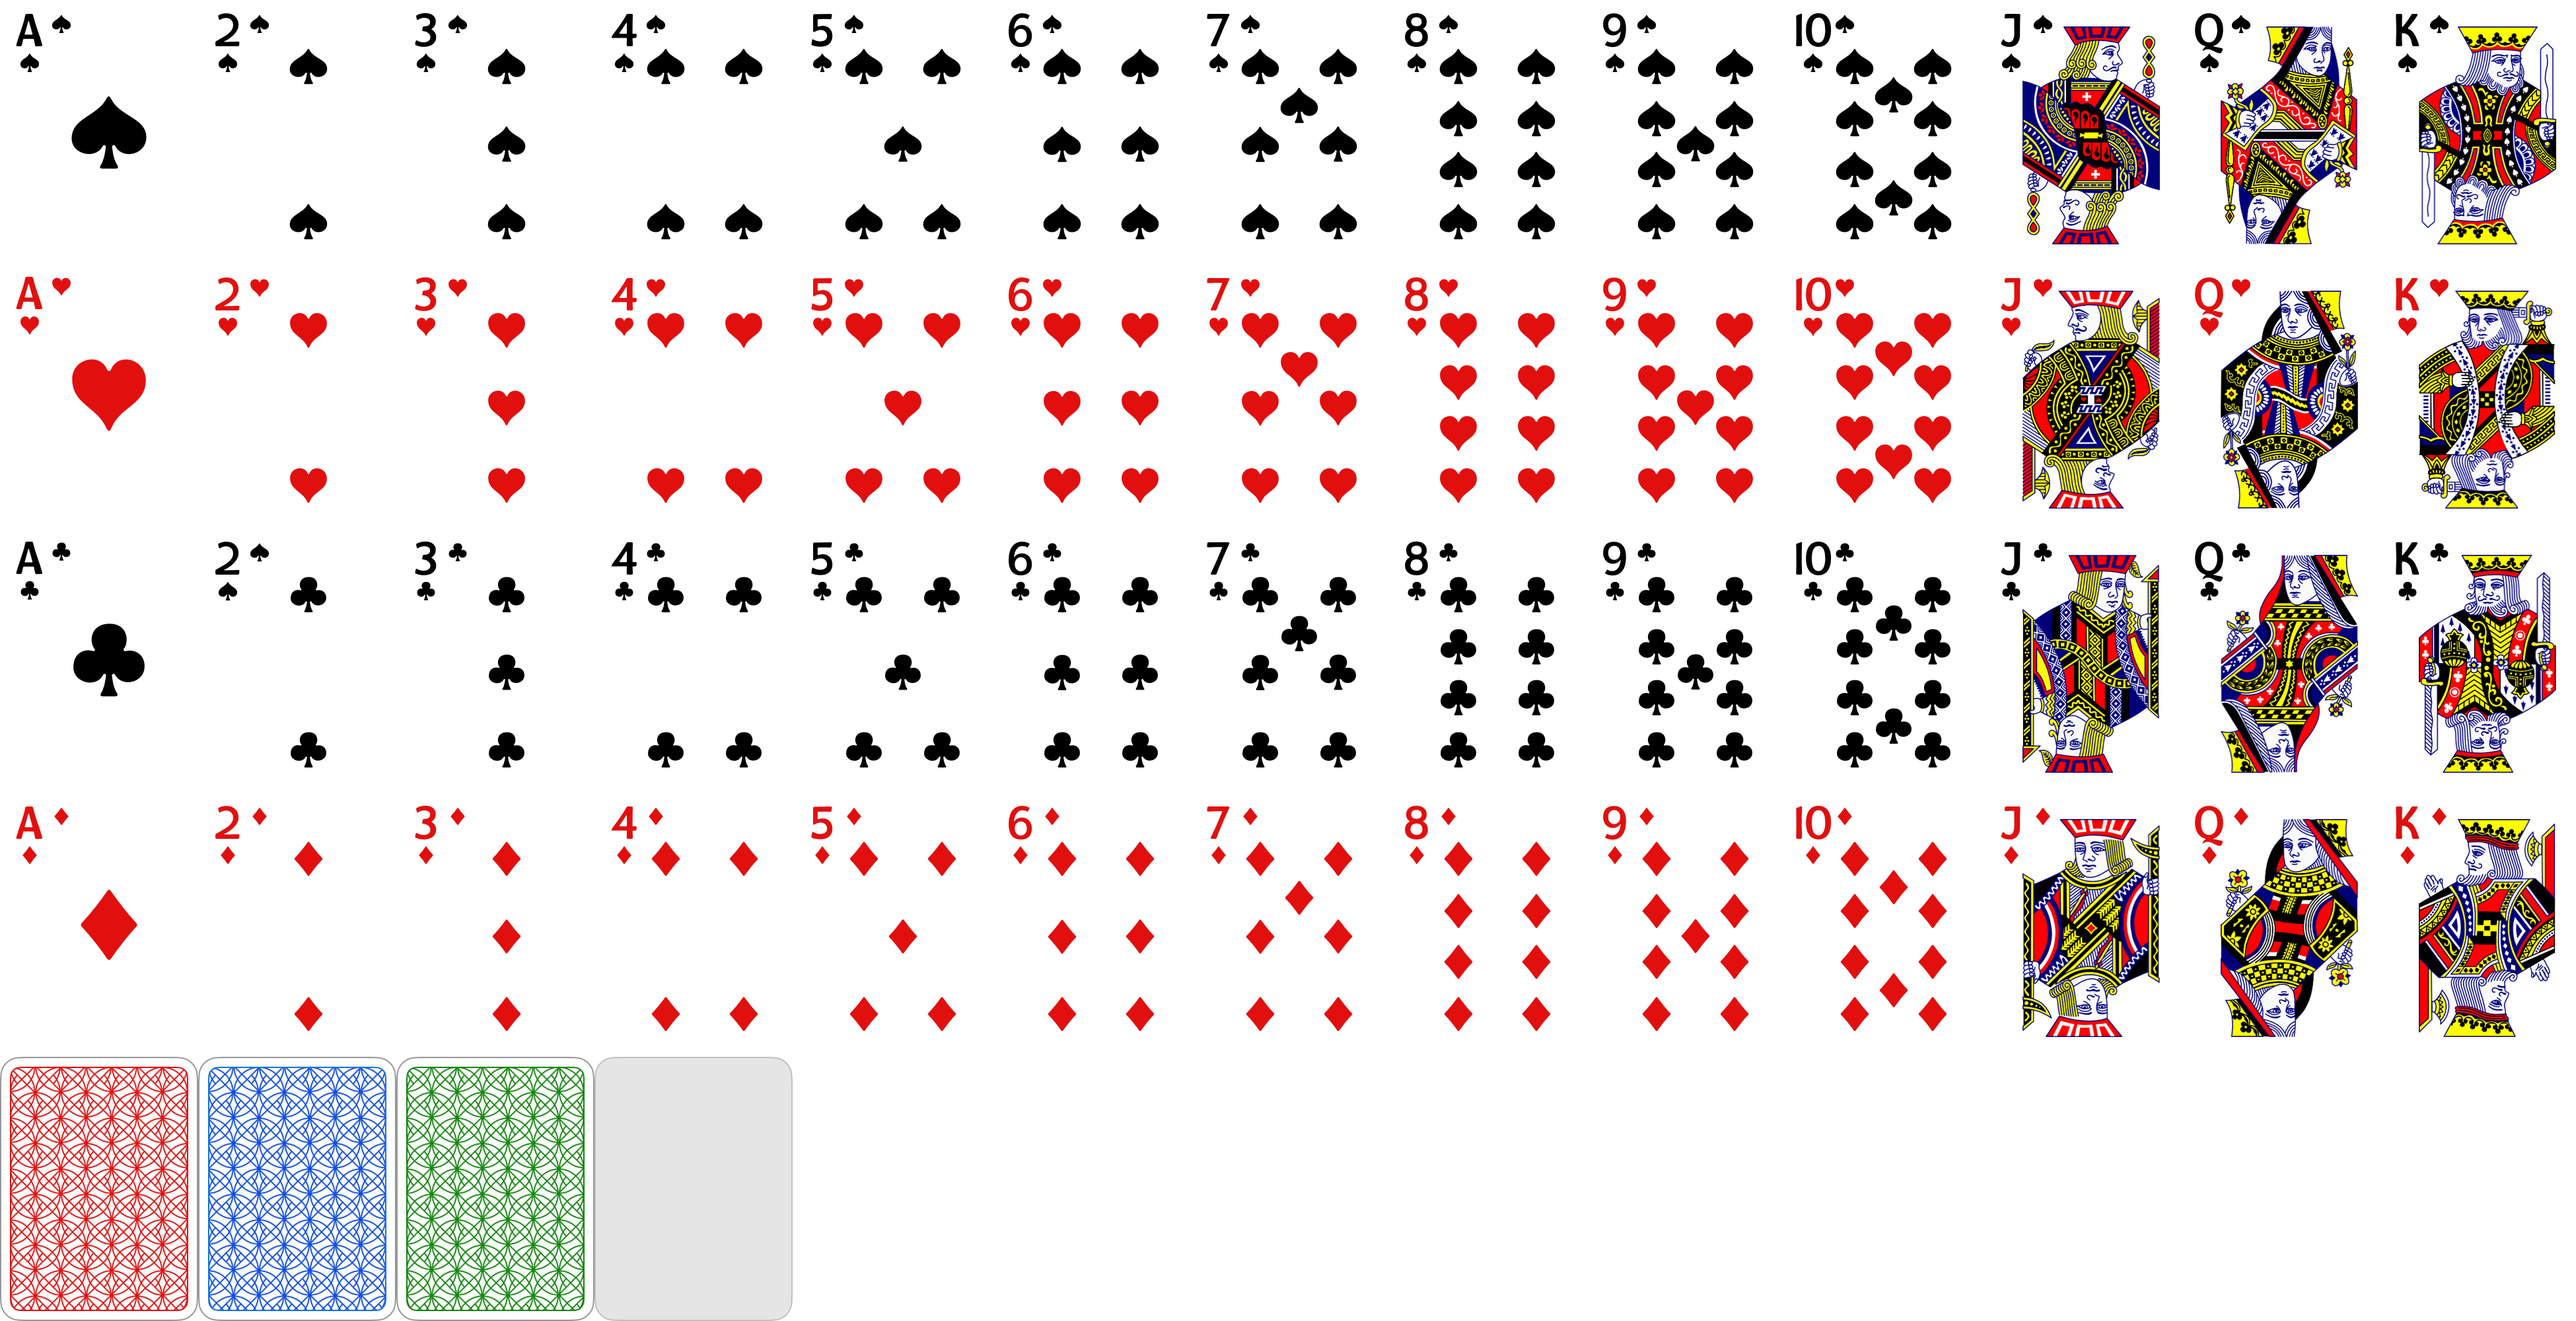
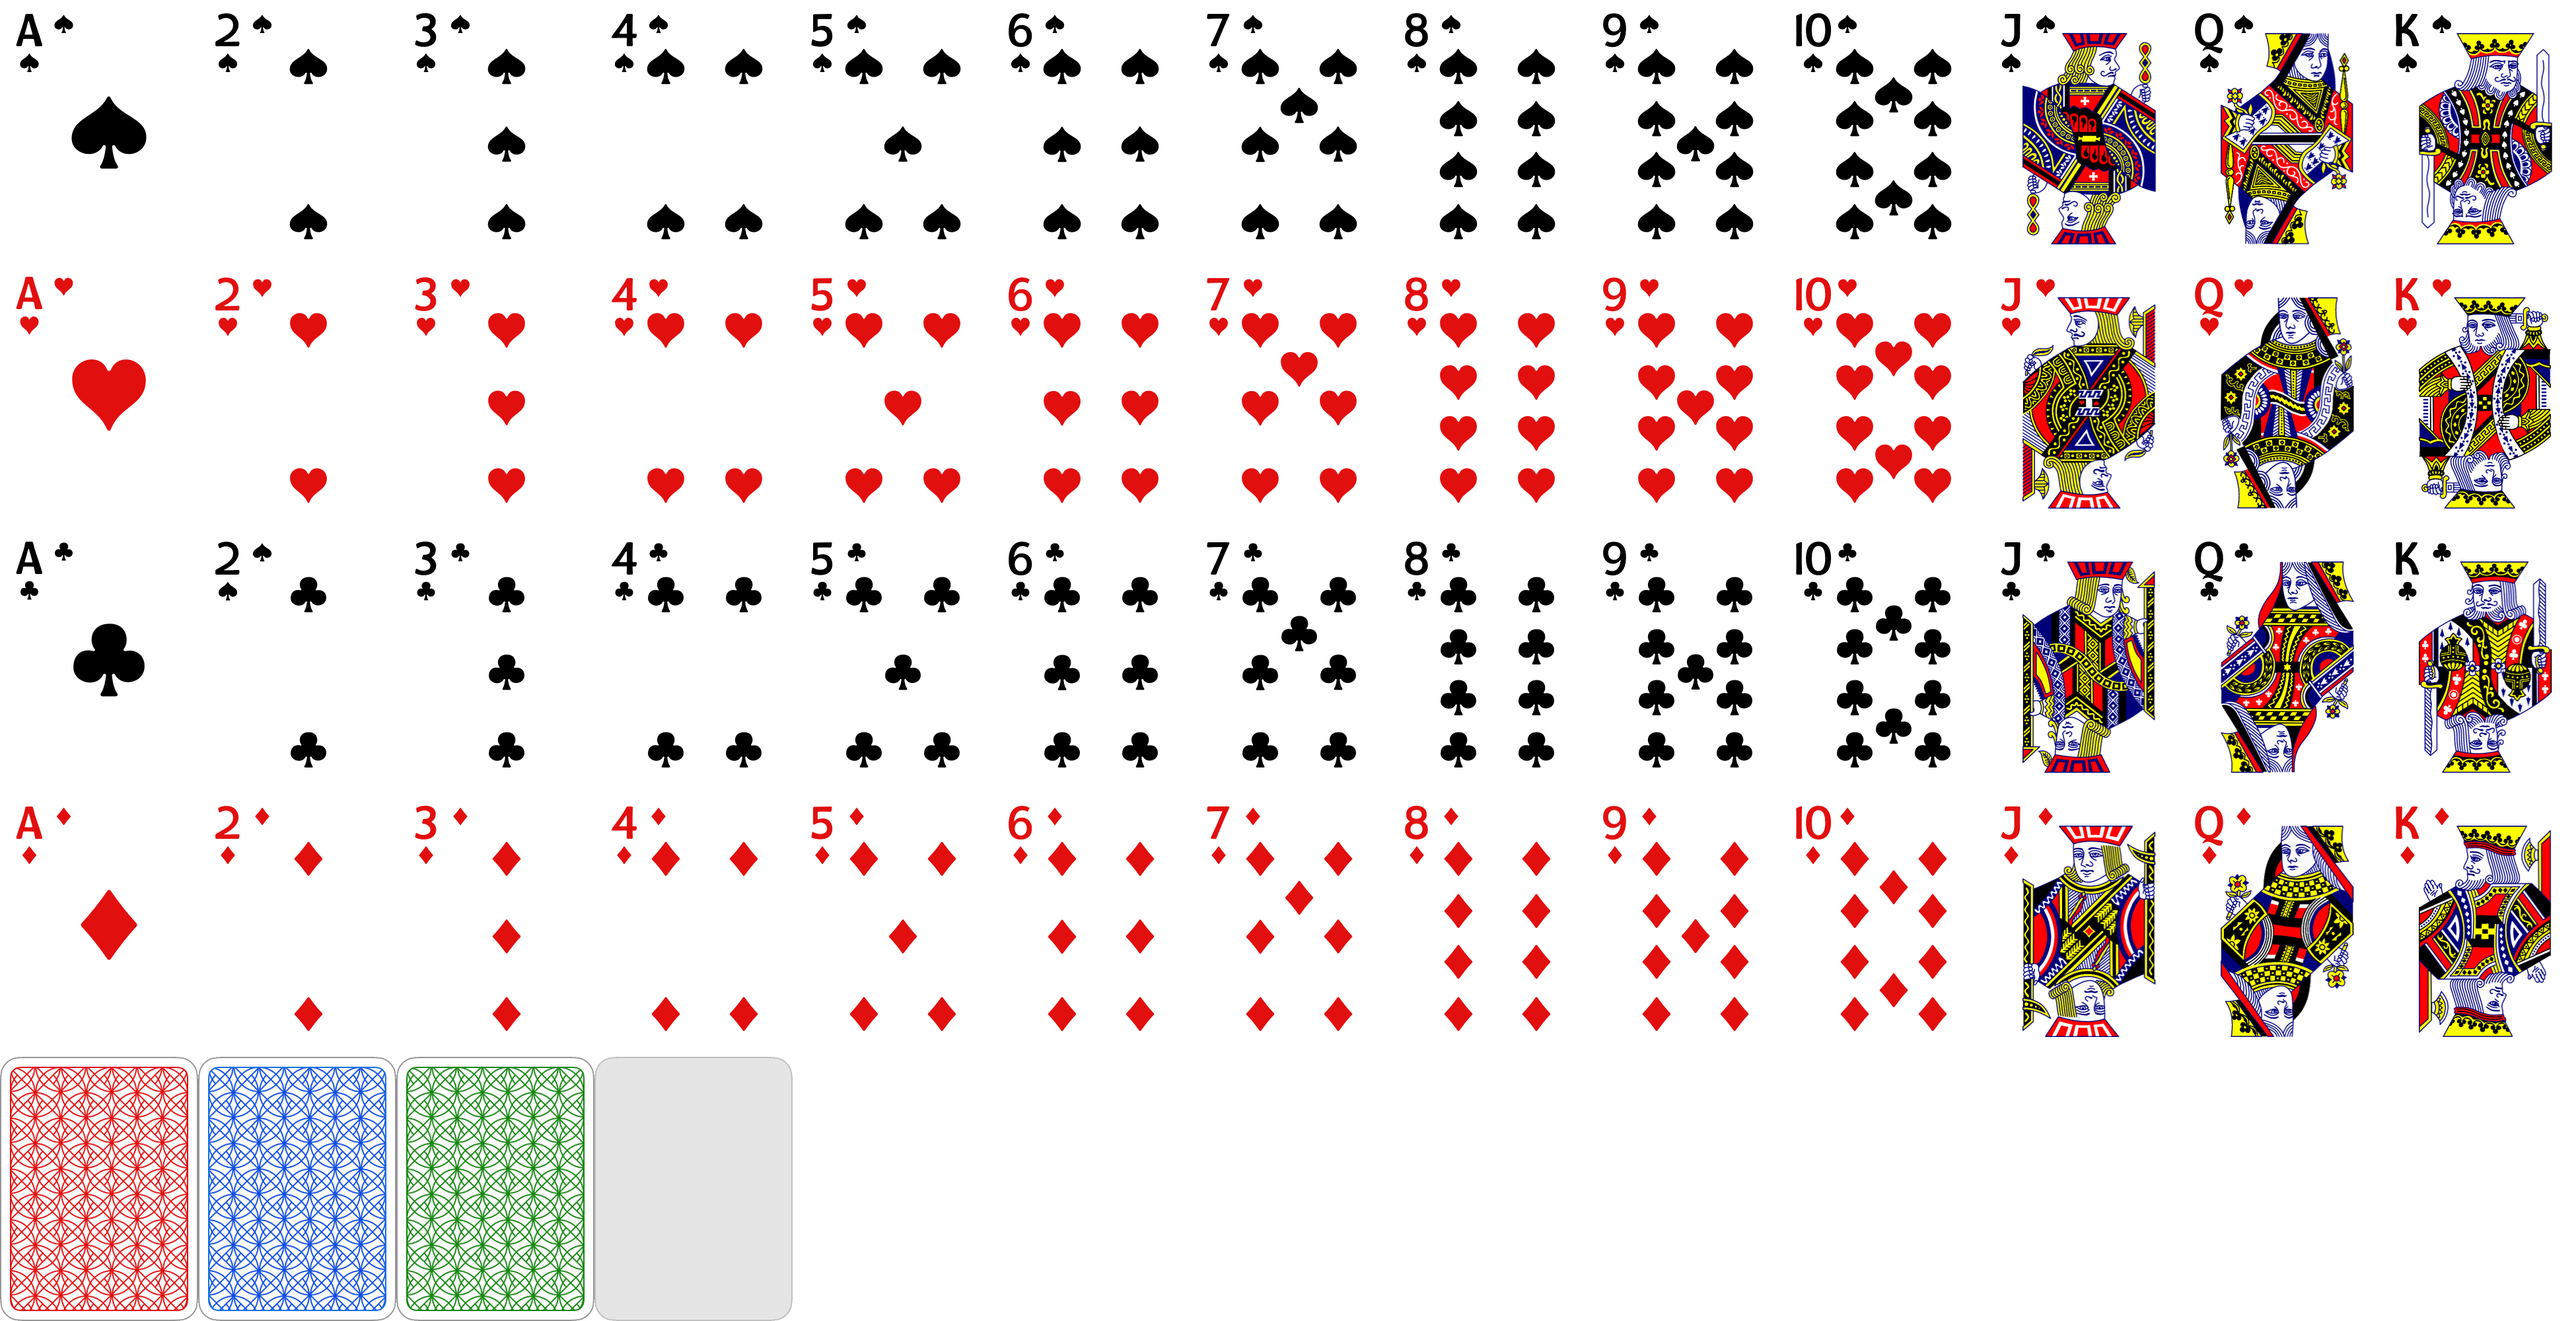
undo deck draw animation

Changed region(s): [[0.7756, 0.217, 0.9928, 0.589], [0.7756, 0.0, 0.9928, 0.186], [0.7756, 0.62, 0.9928, 0.806]]

diff --git a/ts/Game2.ts b/ts/Game2.ts
@@ -92,24 +92,24 @@ export default class Game {
     // start ticker
     Ticker.shared.add(this.update, this);
 
-    // this.dealCards().then(() => {
-    //   this.listenForCardClick();
-    //   this.listenForDeckClick();
-    //   this.initDomUi();
-    // });
+    this.dealCards().then(() => {
+      this.listenForCardClick();
+      this.listenForDeckClick();
+      this.initDomUi();
+    });
 
     // this.deck = [];
     // this.resetDeckSprites();
 
-    const cardA = new Card(Rank.Three, Suit.Diamonds);
-    this.board.at(0).addCard(cardA);
+    // const cardA = new Card(Rank.Three, Suit.Diamonds);
+    // this.board.at(0).addCard(cardA);
 
-    const cardB = new Card(Rank.Two, Suit.Clubs);
-    this.board.at(1).addCard(cardB);
+    // const cardB = new Card(Rank.Two, Suit.Clubs);
+    // this.board.at(1).addCard(cardB);
 
-    this.listenForCardClick();
-    this.listenForDeckClick();
-    this.initDomUi();
+    // this.listenForCardClick();
+    // this.listenForDeckClick();
+    // this.initDomUi();
   }
 
   addChild(...children: Container[]) {
@@ -117,7 +117,6 @@ export default class Game {
   }
 
   animateFromBankToCell(toCell: Cell) {
-    console.log(this.board.at(2) === toCell);
     return new Promise((resolve, _) => {
       // get target position
       const targetPos = toCell.getGlobalPosition();
@@ -1058,13 +1057,32 @@ export default class Game {
   undoDeckDraw(move: DeckDraw) {
     return new Promise((resolve, reject) => {
       const start = this.bank.children.length - 3;
-      this.bank.removeChildren(start);
-      this.refreshBank();
-      this.deck.push(...move.cards);
-      this.resetDeckSprites();
 
       requestAnimationFrame(() => {
-        const cards = this.deckSprites.children;
+        const cards = [...move.cards];
+
+        animate(cards, {
+          x: `-=${store.layout.CARD_W}`,
+          y: `-=${store.layout.CARD_H / 6}`,
+          alpha: {
+            to: 0,
+            ease: 'inQuint'
+          },
+          duration: 150,
+          delay: stagger(75),
+          ease: 'inQuad',
+          onComplete: () => {
+            this.deck.push(...move.cards);
+            this.bank.removeChild(...move.cards);
+            this.resetDeckSprites();
+            cards.forEach((card) => {
+              card.x = 0;
+              card.alpha = 1;
+            });
+          }
+        });
+
+        const deckCards = this.deckSprites.children;
 
         const tl = createTimeline({
           duration: 1000,
@@ -1073,13 +1091,13 @@ export default class Game {
           }
         });
 
-        tl.add(cards, {
+        tl.add(deckCards, {
           y: '-=10',
           duration: 100,
           ease: 'outSine'
         });
 
-        tl.add(cards, {
+        tl.add(deckCards, {
           y: '+=10',
           duration: 100,
           ease: 'outSine',
